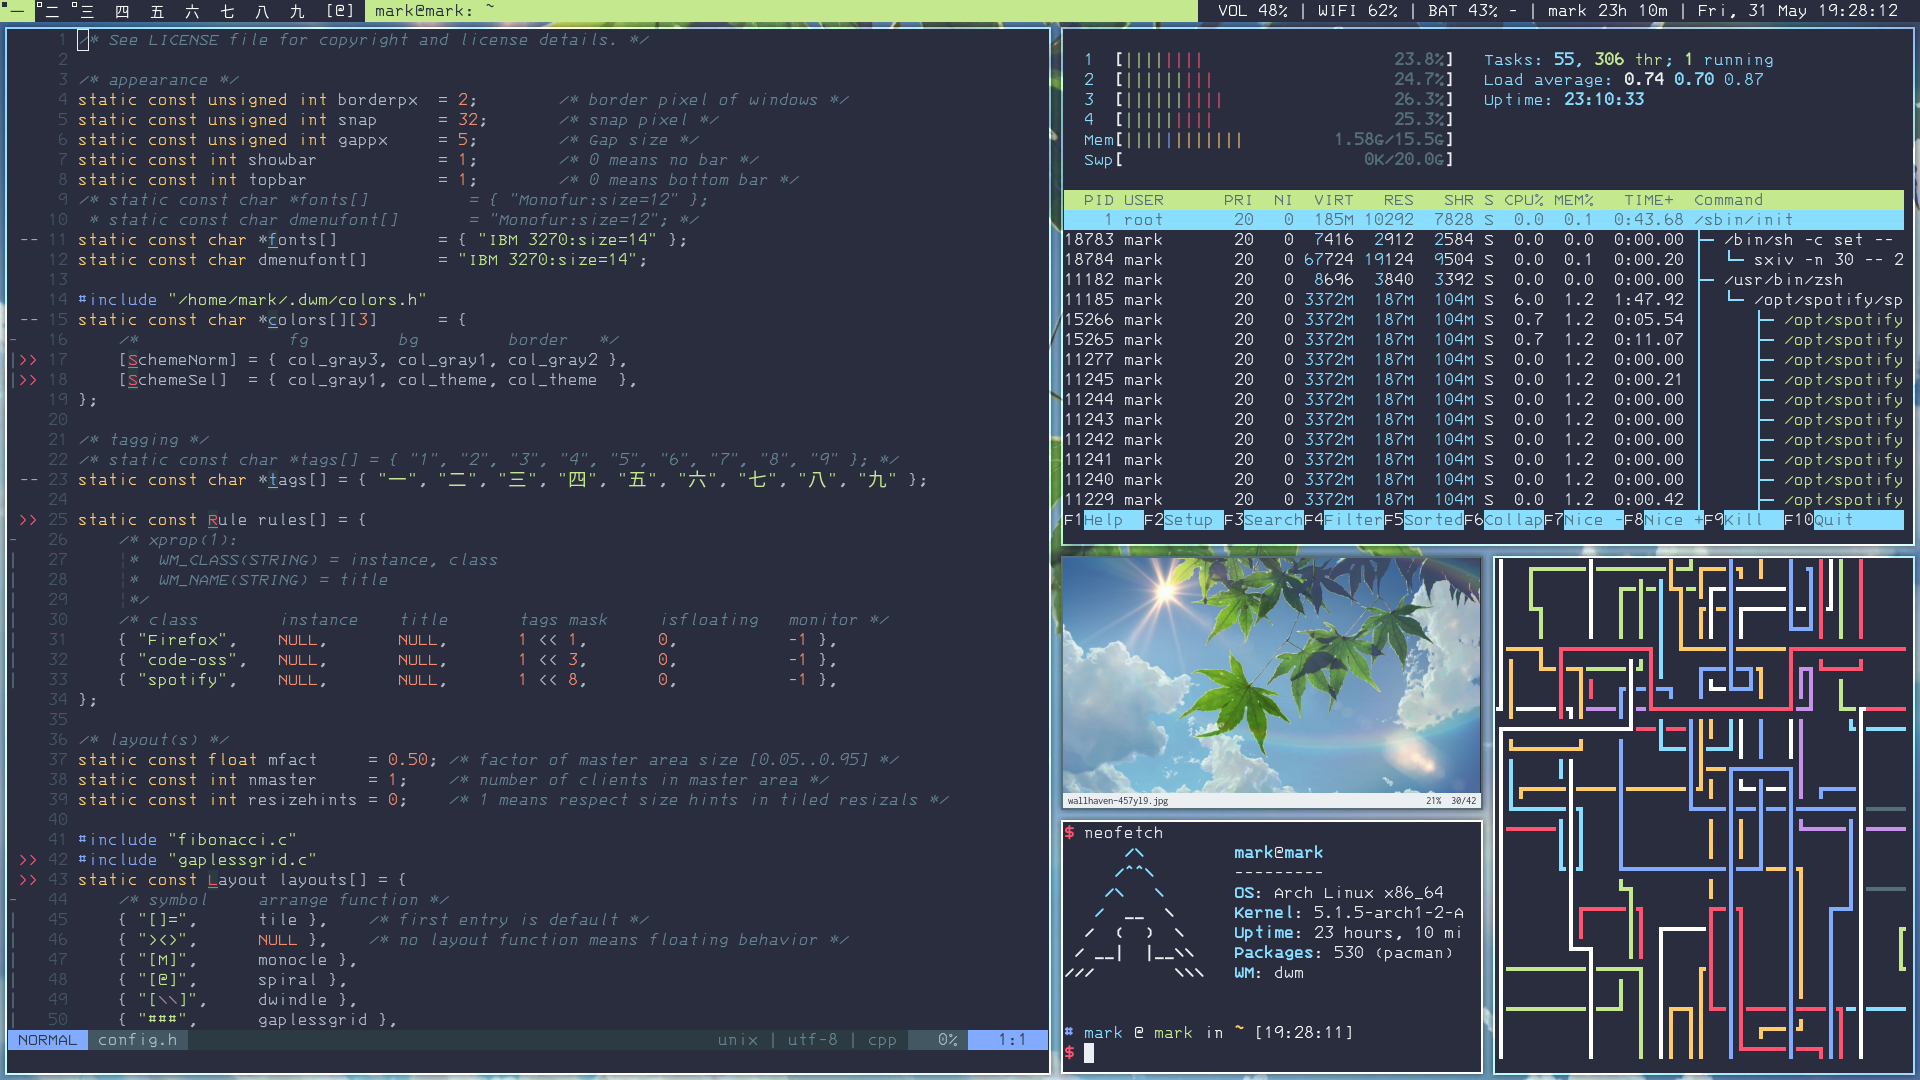
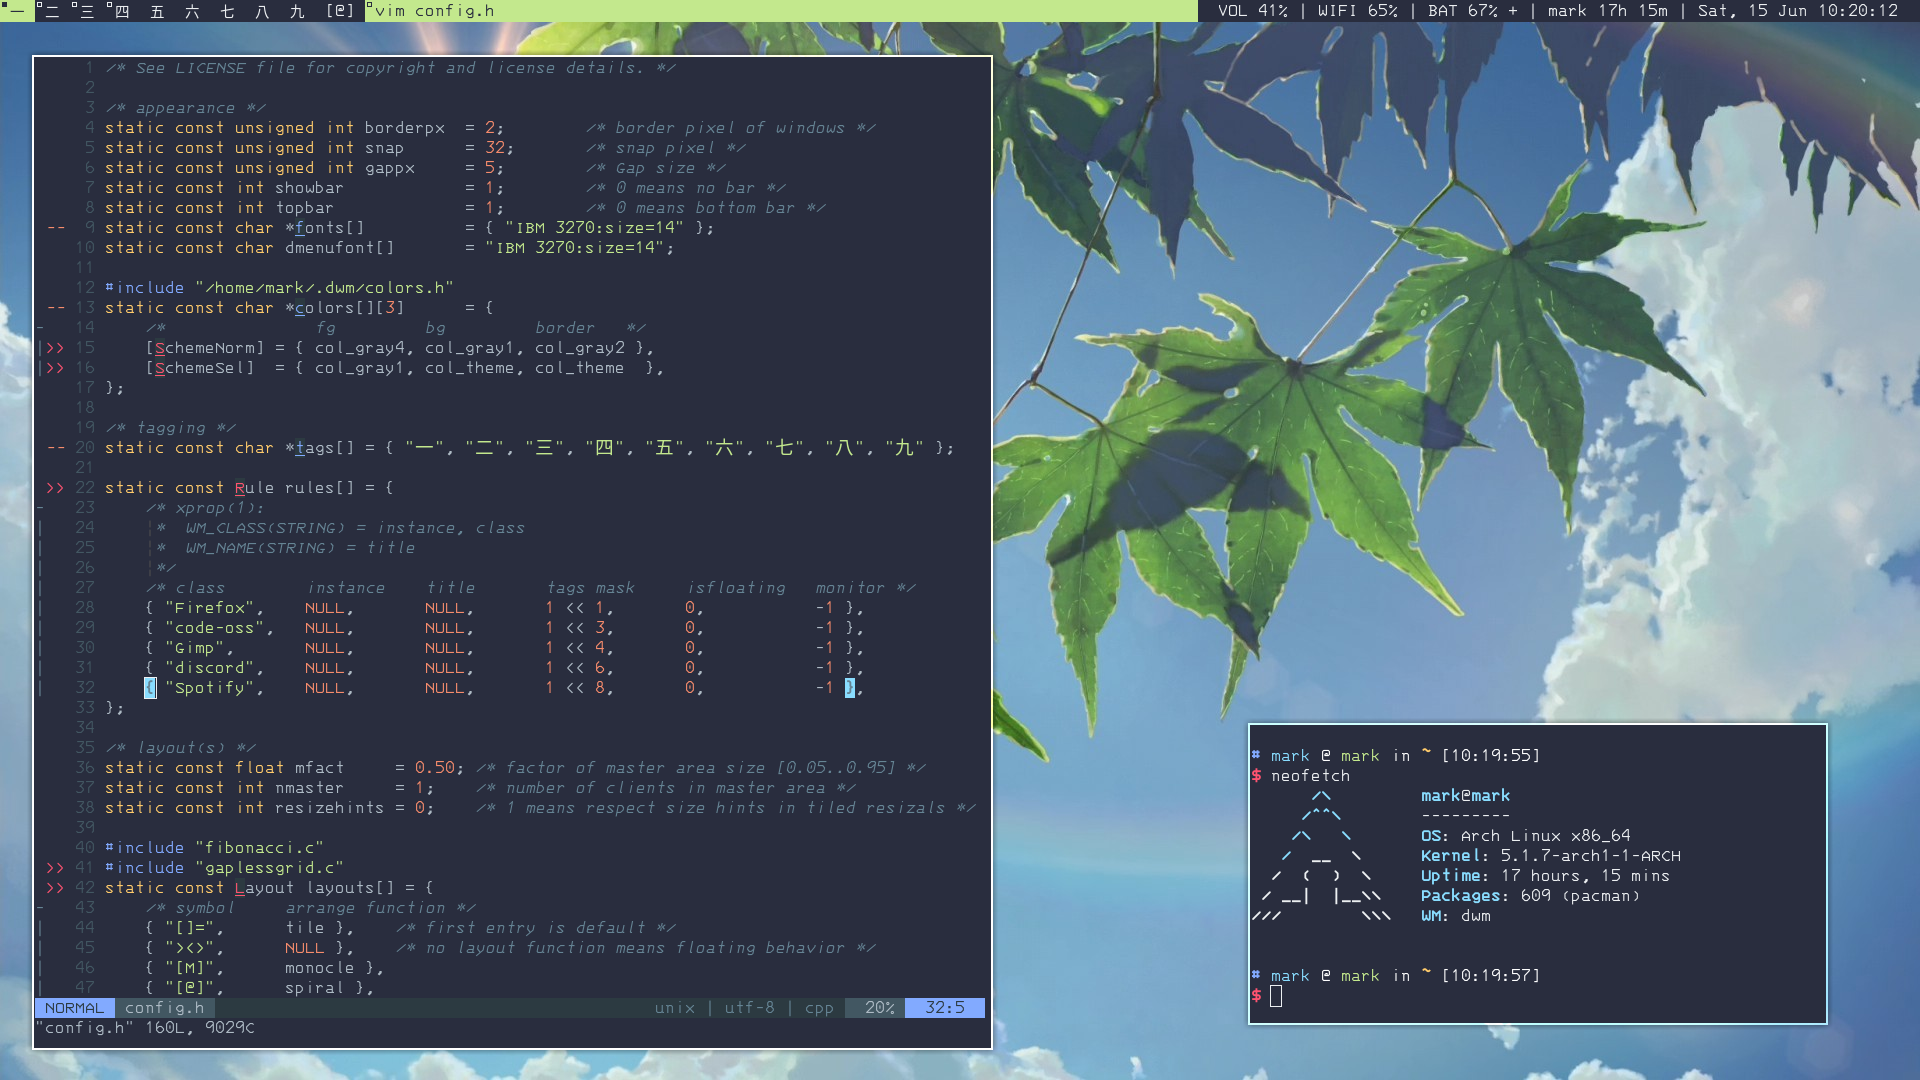
Fixed window rules; new screenshot

diff --git a/dwm/config.h b/dwm/config.h
@@ -6,8 +6,6 @@ static const unsigned int snap      = 32;       /* snap pixel */
 static const unsigned int gappx     = 5;        /* Gap size */
 static const int showbar            = 1;        /* 0 means no bar */
 static const int topbar             = 1;        /* 0 means bottom bar */
-/* static const char *fonts[]          = { "Monofur:size=12" };
- * static const char dmenufont[]       = "Monofur:size=12"; */
 static const char *fonts[]          = { "IBM 3270:size=14" };
 static const char dmenufont[]       = "IBM 3270:size=14";
 
@@ -19,7 +17,6 @@ static const char *colors[][3]      = {
 };
 
 /* tagging */
-/* static const char *tags[] = { "1", "2", "3", "4", "5", "6", "7", "8", "9" }; */
 static const char *tags[] = { "一", "二", "三", "四", "五", "六", "七", "八", "九" };
 
 static const Rule rules[] = {
@@ -30,9 +27,9 @@ static const Rule rules[] = {
 	/* class        instance    title       tags mask     isfloating   monitor */
 	{ "Firefox",    NULL,       NULL,       1 << 1,       0,           -1 },
 	{ "code-oss",   NULL,       NULL,       1 << 3,       0,           -1 },
-	{ "gimp",       NULL,       NULL,       1 << 4,       0,           -1 },
+	{ "Gimp",       NULL,       NULL,       1 << 4,       0,           -1 },
 	{ "discord",    NULL,       NULL,       1 << 6,       0,           -1 },
-	{ "spotify",    NULL,       NULL,       1 << 8,       0,           -1 },
+    { "Spotify",    NULL,       NULL,       1 << 8,       0,           -1 },
 };
 
 /* layout(s) */
